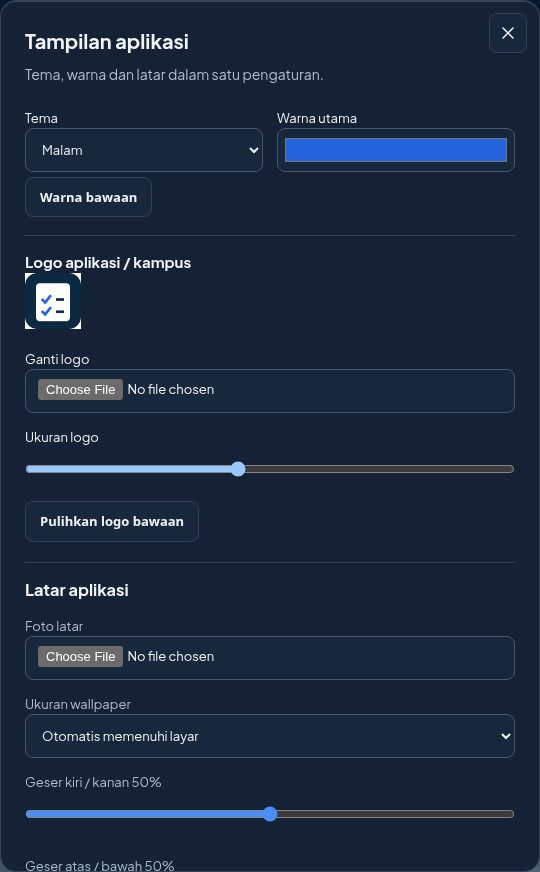
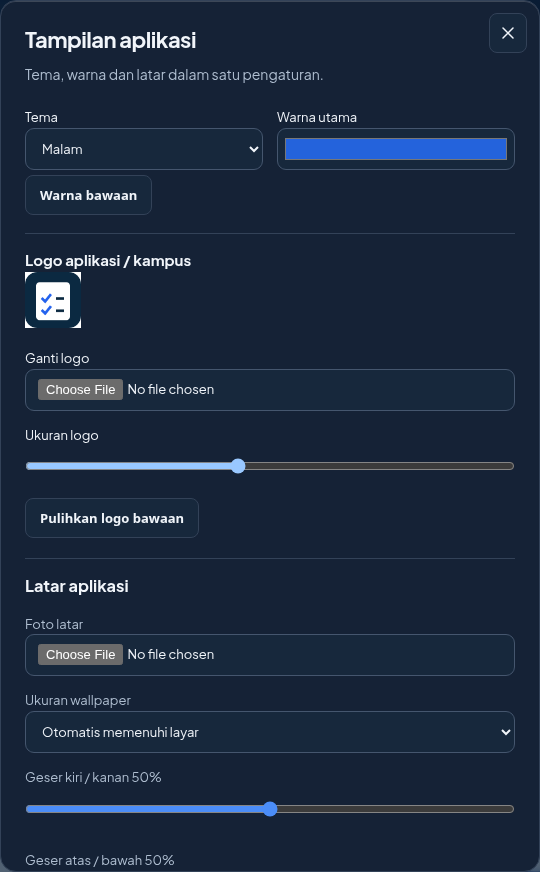
Organize lecturer workspace, repair roster search and keep ribbon anchored

diff --git a/app/experience.css b/app/experience.css
@@ -216,3 +216,69 @@ dialog.face-dialog[open] { box-shadow:0 1px 0 var(--p-depth-edge) inset,0 24px 7
   .portal-sheet .paper-sheet,.portal-sheet #examSheet,
   .p-dialog { box-shadow:none!important; }
 }
+
+/* Lecturer workspaces: aligned navigation, clear task order and calm surfaces. */
+.portal-data .container { max-width:1240px; }
+.portal-data .card-header-flex { gap:18px; border-radius:18px; }
+.portal-data .header-title { flex:1; min-width:0; text-align:left; }
+.portal-data .header-title h2 { margin:0 0 7px; font-size:clamp(20px,2vw,25px); line-height:1.35; letter-spacing:-.035em; }
+.portal-data .header-title p { margin:0; line-height:1.7; font-size:12px; color:var(--p-muted); }
+.portal-data .header-actions { justify-content:flex-end; }
+.portal-data .p-worknav { margin:0; padding:10px 0 0; border-top:1px solid var(--p-line); border-bottom:0; }
+.portal-data .content-card { border-radius:18px; }
+.portal-data .search-filter-box { margin-bottom:20px; }
+.portal-data .search-input-wrapper { width:100%; }
+.portal-data #searchInput { min-height:46px; font-size:14px; border-radius:11px; }
+.portal-data #photoImportCard { border-radius:13px; background:var(--input-bg,var(--p-surface)); box-shadow:none; }
+.portal-data #photoImportCard>h3 { font-size:15px!important; line-height:1.5; }
+.teacher-import-steps { display:flex; flex-wrap:wrap; gap:10px 22px; list-style:none; padding:0; margin:13px 0 16px; }
+.teacher-import-steps li { display:flex; align-items:center; gap:7px; font:500 11px/1.5 system-ui,sans-serif; color:var(--p-muted); }
+.teacher-import-steps span { display:grid; place-items:center; width:21px; height:21px; border:1px solid var(--p-line); border-radius:50%; color:var(--p-text); }
+.teacher-import-help { margin:0 0 14px; font-size:12px; color:var(--p-muted); }
+.teacher-import-help summary,.teacher-data-management summary { cursor:pointer; line-height:1.6; padding:7px 0; font-weight:600; }
+.teacher-import-help p { margin:9px 0!important; max-width:80ch; }
+.portal-data input[type=file] { font:12px/1.5 system-ui,sans-serif; color:var(--p-muted); }
+.portal-data input[type=file]::file-selector-button { padding:10px 12px; margin-right:10px; border:1px solid var(--p-line); border-radius:8px; background:var(--p-surface); color:var(--p-text); cursor:pointer; }
+.teacher-roster-count { margin:20px 0 12px; color:var(--p-muted); font:600 12px/1.5 system-ui,sans-serif; }
+.portal-data #tabelSiswa { border-collapse:separate; border-spacing:0; }
+.portal-data #tabelSiswa th { text-transform:none; font-size:11px; letter-spacing:.025em; padding:13px 16px; }
+.portal-data #tabelSiswa td { padding:14px 16px; vertical-align:middle; line-height:1.5; }
+.portal-data #tabelSiswa tbody tr:hover { background:var(--input-bg); }
+.portal-data #tabelSiswa td:last-child { white-space:nowrap; }
+.portal-data #tabelSiswa .btn-custom { padding:8px 12px; min-height:38px; background:transparent; color:var(--p-text); border:1px solid var(--p-line); box-shadow:none; margin:2px 3px; }
+.portal-data #tabelSiswa .btn-danger { color:var(--p-text); border-style:dashed; }
+.portal-data #tabelSiswa .btn-danger:hover { border-color:#d05c69; }
+.teacher-data-management { margin-top:24px; padding-top:14px; border-top:1px solid var(--p-line); color:var(--p-muted); font-size:12px; }
+.teacher-data-management p { max-width:75ch; line-height:1.7; }
+.portal-data .teacher-data-management #deleteAllStudentData { background:transparent; border:1px solid #bd6674; color:var(--p-text); min-height:42px; padding:10px 14px; white-space:normal; line-height:1.5; }
+.portal-data .teacher-data-management #deleteAllStudentData:hover { background:#ad3143; color:#fff; }
+.p-ribbon .sheet-tools { grid-template-columns:minmax(0,1.1fr) minmax(0,1fr) minmax(0,1.45fr); }
+.portal-sheet .inspector-panel { padding:16px; border-radius:15px; }
+.portal-sheet .inspector-panel label { font-size:11px!important; line-height:1.6; }
+.portal-sheet .inspector-panel button { min-height:38px; }
+.portal-sheet .inspector-panel input:not([type=range]),.portal-sheet .inspector-panel select { font-size:12px; min-height:38px; }
+.portal-sheet #topToolbar.p-ribbon .sheet-group-label { font-size:10px; letter-spacing:.02em; }
+body:not(.portal-student) .p-dialog { font:14px/1.6 system-ui,sans-serif; }
+body:not(.portal-student) .p-dialog>h2 { font-size:22px; letter-spacing:-.025em; line-height:1.35; margin-top:0; }
+body:not(.portal-student) .p-dialog input,body:not(.portal-student) .p-dialog select,body:not(.portal-student) .p-dialog textarea { border-radius:9px; min-height:42px; }
+@media(max-width:1000px) { .p-ribbon .sheet-tools { grid-template-columns:minmax(0,1fr) minmax(0,1fr); } }
+@media(max-width:768px) {
+  .portal-data .header-title { flex-basis:100%; }
+  .portal-data .header-actions { justify-content:flex-start; }
+  .portal-data .header-actions .btn-custom { flex:0 1 auto; }
+  .portal-data .p-worknav { padding-top:10px; padding-bottom:5px; }
+  .portal-data .content-card,.portal-data .card-header-flex { padding:18px; border-radius:15px; }
+  .portal-data #tabelSiswa th,.portal-data #tabelSiswa td { padding:12px; }
+  .teacher-import-steps { gap:7px 12px; }
+  .teacher-import-steps li { font-size:10px; }
+  .p-ribbon .sheet-tools { grid-template-columns:minmax(0,1fr); }
+}
+@media print { .teacher-data-management,.teacher-import-steps,.teacher-roster-count { display:none!important; } }
+/* The ribbon must remain fixed; decorative surface rules must not move it into document flow. */
+html[data-theme] .portal-sheet #topToolbar.p-ribbon { position:fixed; top:8px; }
+@media(max-width:768px) {
+  html[data-theme] .portal-sheet #topToolbar.p-ribbon { top:4px; }
+  .portal-data .header-actions { flex-wrap:nowrap; }
+  .portal-data .header-actions button:not(.portal-music-control) { width:auto; flex:1; }
+  .portal-data .header-actions .portal-music-control { flex:none; width:42px!important; height:42px!important; }
+}

diff --git a/app/guide.js b/app/guide.js
@@ -31,7 +31,7 @@ function close(){panel.hidden=true;frame.hidden=true;target=null;q('.wa-guide-op
 function position(){dockPosition();if(panel.hidden)return;const visible=target&&target.getClientRects().length&&getComputedStyle(target).visibility!=='hidden';frame.hidden=!visible;
 const w=innerWidth,h=innerHeight,pw=panel.offsetWidth,rect=visible?target.getBoundingClientRect():null;panel.style.maxHeight='';let ph=panel.offsetHeight,top=Math.max(12,Math.min(h-ph-12,h*.15));if(rect){frame.style.cssText=`left:${Math.max(0,rect.left-3)}px;top:${Math.max(0,rect.top-3)}px;width:${Math.min(w,rect.width+6)}px;height:${Math.min(h,rect.height+6)}px`;if(w<=600){const below=h-rect.bottom-40,above=rect.top-24;if(below>=220||below>=above){top=rect.bottom+28;panel.style.maxHeight=Math.max(120,below)+'px';}else{top=12;panel.style.maxHeight=Math.max(120,above)+'px';}ph=panel.offsetHeight;}else if(rect.bottom+ph+30<h)top=rect.bottom+28;else if(rect.top-ph-12>12)top=rect.top-ph-12;else top=rect.top<h/2?Math.max(12,h-ph-12):12;}
 panel.style.top=Math.max(12,Math.min(h-ph-12,top))+'px';panel.style.right='40px';if(rect&&rect.right<w-pw-50)panel.style.right='16px';}
-function render(){const s=groups[chapter][1][index];s.prepare?.();if(student&&document.querySelector('.student-bottom-nav')&&!s.prepare){const tab=/studentNotifications/.test(s.target)?'messages':/history|studentHistory/.test(s.target)?'history':/enableNotices|deleteMyAccount|student-logout|face-enroll/.test(s.target)?'account':'attendance';window.PresenExperience?.view(tab);}q('h3').textContent=s.title;q('.wa-guide-text').textContent=s.text;q('img').src=new URL('guide-images/'+s.image+'.png',rootURL);q('.wa-guide-count').textContent=(index+1)+' / '+groups[chapter][1].length;q('.wa-guide-prev').disabled=index===0;q('.wa-guide-next').textContent=index===groups[chapter][1].length-1?'Selesai':'Lanjut';target=document.querySelector(s.target);if(target&&target.getClientRects().length)target.scrollIntoView({block:'nearest',behavior:'instant'});position();}
+function render(){const s=groups[chapter][1][index];s.prepare?.();if(student&&document.querySelector('.student-bottom-nav')&&!s.prepare){const tab=/studentNotifications/.test(s.target)?'messages':/history|studentHistory/.test(s.target)?'history':/enableNotices|deleteMyAccount|student-logout|face-enroll/.test(s.target)?'account':'attendance';window.PresenExperience?.view(tab);}q('h3').textContent=s.title;q('.wa-guide-text').textContent=s.text;q('img').src=new URL('guide-images/'+s.image+'.png',rootURL);q('.wa-guide-count').textContent=(index+1)+' / '+groups[chapter][1].length;q('.wa-guide-prev').disabled=index===0;q('.wa-guide-next').textContent=index===groups[chapter][1].length-1?'Selesai':'Lanjut';target=document.querySelector(s.target);for(let parent=target?.parentElement;parent;parent=parent.parentElement)if(parent.tagName==='DETAILS')parent.open=true;if(target&&target.getClientRects().length)target.scrollIntoView({block:'nearest',behavior:'instant'});position();}
 q('.wa-guide-open').onclick=()=>{if(drag)return;if(dock.classList.contains('is-small')){dock.classList.remove('is-small');put('small',0);dockPosition();return;}panel.hidden=!panel.hidden;if(panel.hidden)close();else{q('.wa-guide-open').setAttribute('aria-expanded','true');render();}};
 q('.wa-guide-hide').onclick=()=>{close();dock.classList.add('is-small');put('small',1);};q('.wa-guide-close').onclick=close;select.onchange=()=>{chapter=Number(select.value);index=0;render();};q('.wa-guide-prev').onclick=()=>{index=Math.max(0,index-1);render();};q('.wa-guide-next').onclick=()=>{if(index===groups[chapter][1].length-1)close();else{index++;render();}};
 const toggle=q('.wa-guide-status-toggle');toggle.checked=get('status')==='1';toggle.onchange=()=>{put('status',toggle.checked?'1':'0');document.documentElement.dataset.waShowStatus=toggle.checked?'1':'0';};

diff --git a/app/templates/data_siswa.html b/app/templates/data_siswa.html
@@ -249,7 +249,7 @@
             <div class="search-filter-box">
                 <div class="search-input-wrapper">
                     <i class="fa-solid fa-magnifying-glass"></i>
-                    <input type="text" id="searchInput" placeholder="Cari nama mahasiswa secara real-time..." onkeyup="filterTabelSiswa()">
+                    <input type="text" id="searchInput" placeholder="Cari nama atau NIM mahasiswa…" aria-label="Cari nama atau NIM mahasiswa" onkeyup="filterTabelSiswa()">
                 </div>
                 <button type="button" class="btn-custom btn-danger" id="deleteAllStudentData" title="Reset seluruh data mahasiswa pada semua prodi, semester, dan kelas"><i class="fa-solid fa-trash-can"></i> Reset Semua Data Mahasiswa Akun Ini</button>
             </div>
@@ -397,21 +397,15 @@
 
         // Fitur Pencarian Nama Mahasiswa secara Real-Time
         function filterTabelSiswa() {
-            const input = document.getElementById('searchInput');
-            const filter = input.value.toLowerCase();
-            const table = document.getElementById('tabelSiswa');
-            const tr = table.getElementsByTagName('tr');
-            for (let i = 1; i < tr.length; i++) {
-                const tdNama = tr[i].getElementsByTagName('td')[3];
-                if (tdNama) {
-                    const txtValue = tdNama.textContent || tdNama.innerText;
-                    if (txtValue.toLowerCase().indexOf(filter) > -1) {
-                        tr[i].style.display = '';
-                    } else {
-                        tr[i].style.display = 'none';
-                    }
-                }
+            const filter = document.getElementById('searchInput').value.trim().toLocaleLowerCase('id-ID');
+            const rows = Array.from(document.querySelectorAll('#tabelSiswa tbody tr')).filter(row=>row.cells.length>=5);
+            let visible=0;
+            for(const row of rows){
+                const value=[row.cells[1].textContent,row.cells[2].textContent].join(' ').toLocaleLowerCase('id-ID');
+                const matches=value.includes(filter);row.hidden=!matches;row.style.display=matches?'':'none';if(matches)visible++;
             }
+            const status=document.getElementById('teacherRosterCount');
+            if(status)status.textContent=filter?`Menampilkan ${visible} dari ${rows.length} mahasiswa`:`${rows.length} mahasiswa di kelas ini`;
         }
 
         const ocrPhoto = {file:null, image:null, source:null, crop:null, turn:0, skew:0, loading:null, ticket:0};

diff --git a/app/experience.js b/app/experience.js
@@ -27,6 +27,18 @@ function structureToolbar(){
  const music=()=>{const button=document.getElementById('absensiMusicLauncher');if(button)exports.append(button);};music();document.addEventListener('DOMContentLoaded',music,{once:true});
 }
 structureToolbar();
+function structureRoster(){
+ const table=document.getElementById('tabelSiswa');if(!table)return;
+ const parent=table.closest('.content-card'),search=document.getElementById('searchInput');
+ const counter=document.createElement('p');counter.id='teacherRosterCount';counter.className='teacher-roster-count';counter.setAttribute('role','status');table.closest('.table-responsive').before(counter);
+ const reset=document.getElementById('deleteAllStudentData');if(reset){const zone=document.createElement('details');zone.className='teacher-data-management';zone.innerHTML='<summary>Pengelolaan data permanen</summary><p>Reset menghapus seluruh data mahasiswa, akun, absensi, dan nilai pada akun dosen ini di semua prodi, semester, dan kelas. Data dosen lain tetap terpisah.</p>';zone.append(reset);parent.append(zone);}
+ const card=document.getElementById('photoImportCard');if(card){
+  const intro=card.querySelector(':scope > p');if(intro){const help=document.createElement('details');help.className='teacher-import-help';help.innerHTML='<summary>Cara impor & format berkas</summary>';intro.before(help);help.append(intro);}
+  const steps=document.createElement('ol');steps.className='teacher-import-steps';steps.setAttribute('aria-label','Tahapan impor');steps.innerHTML='<li><span>1</span>Pilih berkas</li><li><span>2</span>Periksa hasil</li><li><span>3</span>Simpan daftar</li>';card.querySelector('h3').after(steps);
+ }
+ const update=()=>window.filterTabelSiswa?.();new MutationObserver(update).observe(table.tBodies[0],{childList:true});search?.addEventListener('input',update);update();
+}
+structureRoster();
 // Animate each newly opened surface once. Closing and camera cleanup remain native.
 const motionPreference=matchMedia('(prefers-reduced-motion:reduce)'),boundSurfaces=new WeakSet(),activeMotion=new Set();
 function lift(el,tab=false){

diff --git a/data_siswa.php b/data_siswa.php
@@ -402,7 +402,7 @@ if ($stmt) {
             <div class="search-filter-box">
                 <div class="search-input-wrapper">
                     <i class="fa-solid fa-magnifying-glass"></i>
-                    <input type="text" id="searchInput" placeholder="Cari nama mahasiswa secara real-time..." onkeyup="filterTabelSiswa()">
+                    <input type="text" id="searchInput" placeholder="Cari nama atau NIM mahasiswa…" aria-label="Cari nama atau NIM mahasiswa" onkeyup="filterTabelSiswa()">
                 </div>
                 <button type="button" class="btn-custom btn-danger" id="deleteAllStudentData" title="Reset seluruh data mahasiswa pada semua prodi, semester, dan kelas"><i class="fa-solid fa-trash-can"></i> Reset Semua Data Mahasiswa Akun Ini</button>
             </div>
@@ -563,21 +563,15 @@ if ($stmt) {
 
         // Fitur Pencarian Nama Mahasiswa secara Real-Time
         function filterTabelSiswa() {
-            const input = document.getElementById('searchInput');
-            const filter = input.value.toLowerCase();
-            const table = document.getElementById('tabelSiswa');
-            const tr = table.getElementsByTagName('tr');
-            for (let i = 1; i < tr.length; i++) {
-                const tdNama = tr[i].getElementsByTagName('td')[3];
-                if (tdNama) {
-                    const txtValue = tdNama.textContent || tdNama.innerText;
-                    if (txtValue.toLowerCase().indexOf(filter) > -1) {
-                        tr[i].style.display = '';
-                    } else {
-                        tr[i].style.display = 'none';
-                    }
-                }
+            const filter = document.getElementById('searchInput').value.trim().toLocaleLowerCase('id-ID');
+            const rows = Array.from(document.querySelectorAll('#tabelSiswa tbody tr')).filter(row=>row.cells.length>=5);
+            let visible=0;
+            for(const row of rows){
+                const value=[row.cells[1].textContent,row.cells[2].textContent].join(' ').toLocaleLowerCase('id-ID');
+                const matches=value.includes(filter);row.hidden=!matches;row.style.display=matches?'':'none';if(matches)visible++;
             }
+            const status=document.getElementById('teacherRosterCount');
+            if(status)status.textContent=filter?`Menampilkan ${visible} dari ${rows.length} mahasiswa`:`${rows.length} mahasiswa di kelas ini`;
         }
 
         const ocrPhoto = {file:null, image:null, source:null, crop:null, turn:0, skew:0, loading:null, ticket:0};

diff --git a/docs/PEMBARUAN-1.2.2.md b/docs/PEMBARUAN-1.2.2.md
@@ -8,6 +8,7 @@ Pembaruan ini memakai website yang sama dan aplikasi **Absen Mahasiswa**. Paket 
 - Kotak pesan dosen memakai daftar dan pencarian yang lebih ringkas, dengan pemberitahuan kecil saat pesan baru masuk. Riwayat absen, foto bukti, dan lokasi tetap mengikuti akun masing-masing.
 - Beranda, navigasi, panel data, dan bilah lembar memakai bayangan berlapis serta respons hover ringan agar hierarki halaman lebih jelas. Pada ponsel geraknya disederhanakan; panduan menghindari tombol yang sedang ditunjuk. Kertas absen dan ujian tetap putih dan efek dekoratif tidak ikut dicetak.
 - Aplikasi mahasiswa memakai empat tab tetap: Absen, Riwayat, Pesan, dan Akun. Nama dan NIM dipisahkan, status persetujuan diperjelas, formulir masuk dikelompokkan menjadi kelas dan akun, serta tombol utama dibuat nyaman disentuh. Formulir sakit/izin tetap menampilkan alasan dan foto bukti saat diperlukan. Warna mengikuti tema, animasi tab singkat, dan pengaturan pengurangan gerak perangkat dihormati.
+- Halaman data dosen menampilkan jumlah mahasiswa/hasil pencarian, tahapan impor, dan bantuan format yang dapat dibuka. Pencarian diperbaiki agar membaca nama dan NIM. Reset permanen ditempatkan terpisah dari tindakan harian dan tetap memakai konfirmasi berlapis. Panel, navigasi, dan alat lembar diselaraskan untuk desktop/HP.
 - Font isi tabel, nomor, judul kolom, dan identitas lembar diseragamkan. Tombol **Muat 35 mahasiswa** memilih ukuran 8 pt dan baris ringkas; pengaturan kelas/mata kuliah yang sama dipakai pada lembar absen dan ujian. Penyesuaian tetap memperhitungkan ruang untuk kop, metadata, dan tanda tangan.
 - Enter bergerak ke pertemuan berikutnya. Delete/Backspace mengosongkan sel lalu bergerak ke pertemuan sebelumnya, termasuk setelah lembar disimpan dan dibuka lagi.
 - Tanda tangan PNG transparan dipasang sebagai lapisan di atas nama, dapat diseret dan diatur posisi/ukurannya. Penempatan disimpan bersama lembar. Blok tanda tangan diekspor sebagai gambar gabungan agar posisi tinta terhadap nama tetap sama pada Word/Excel; teks pada blok gambar tersebut tidak dapat diedit langsung di Office.
